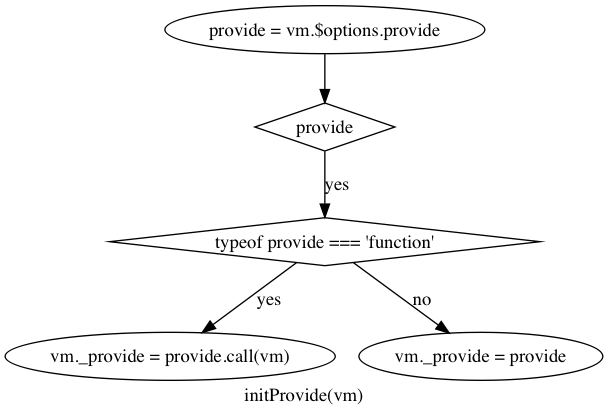
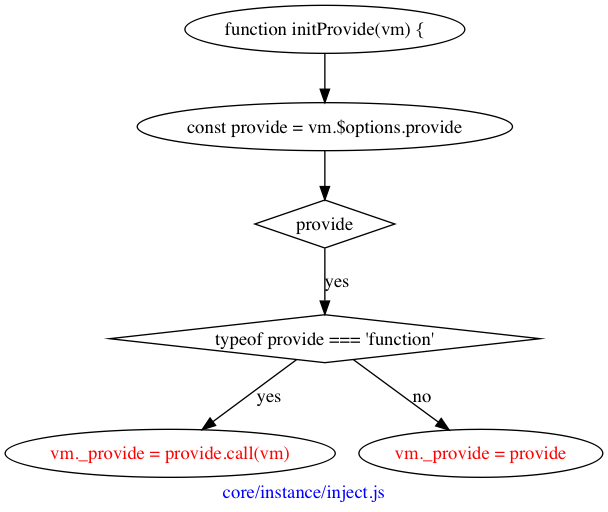
【完成】vm 创建过程的分析

diff --git a/README.md b/README.md
@@ -94,7 +94,9 @@ new Vue({
 
 ### initInjections
 
-噢，完全不明白这个函数用来做什么，至今为止没有主动用到过`inject`这个配置项，到后面遇到的时候再回过头来看看吧。
+[provide/inject](https://cn.vuejs.org/v2/api/#provide-inject)
+
+> provide 和 inject 主要为高阶插件/组件库提供用例。并不推荐直接用于应用程序代码中。
 
 ![initInjections](./initInjections.png)
 
@@ -277,20 +279,26 @@ function createComputedGetter (key) {
 
 #### initWatch
 
-初始化监听，很简单，遍历`watch`并给每个键调用`createWatcher`，而在`createWatcher`中其实就是调用了`vm.$watch`，而在`vm.$watch`中，其实最终还是实例化`Watcher`。
 
 ![initWatch](./initWatch.png)
 
+遍历`watch`并给每个键调用`createWatcher`，
+
+![createWatcher](./createWatcher.png)
+而在`createWatcher`中其实就是调用了`vm.$watch`，
+![VuePrototypeWatch](./prototypeWatch.png)
+而在`vm.$watch`中，其实最终还是实例化`Watcher`。
+
 ### initProvide
 
-只是添加了`vm._provide`这一个属性。
+只是添加了`vm._provide`这一个属性，和上面的`inject`配合使用。
 
 ![initProvide](./initProvide.png)
 
+调用该方法后，就完成了`create`，这么看来似乎是`vm`的创建。
+
 ## $mount
-
-
-OK，前面终于完成了初始化，到目前为止都是平台无关的，接下来就和运行的平台有关了，所以是分为了`web`与`weex`两个不同的`$mount`实现，当然这里只会分析`web`端的实现，这部分的入口在`vue/platforms/web/entry-runtime-with-compiler.js`。
+OK，终于完成了初始化，到目前为止都是平台无关的，接下来就和运行的平台有关了，所以是分为了`web`与`weex`两个不同的`$mount`实现，当然这里只会分析`web`端的实现，这部分的入口在`vue/platforms/web/entry-runtime-with-compiler.js`。
 
 开始吧！
 
